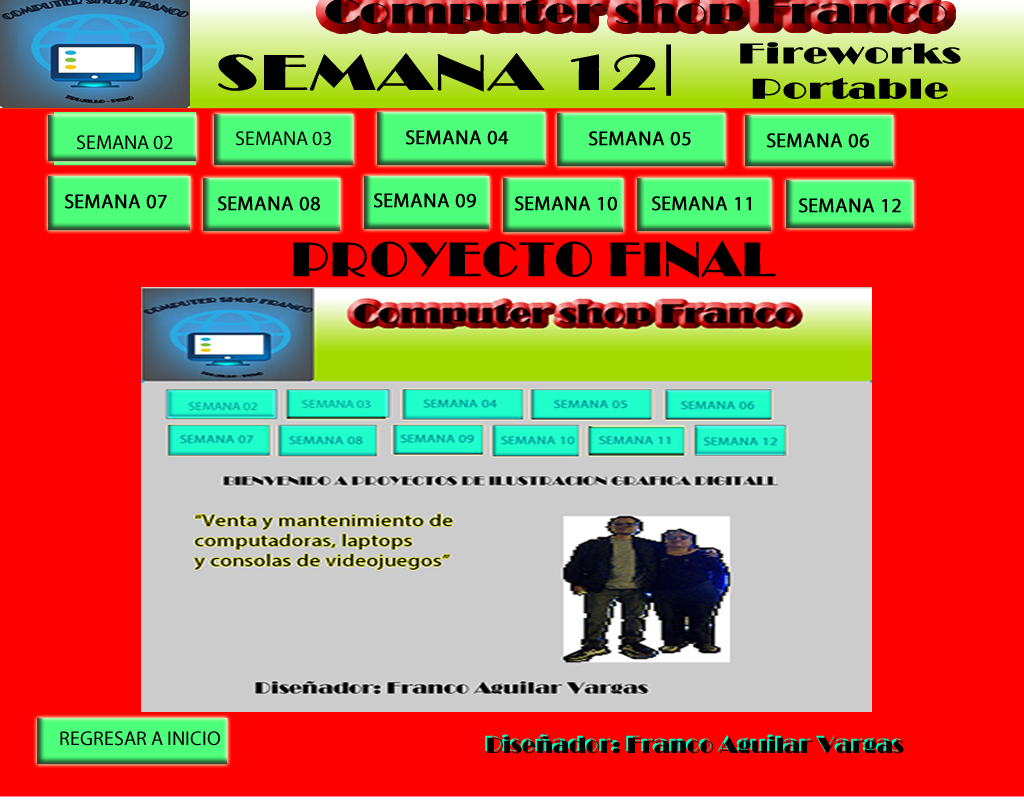
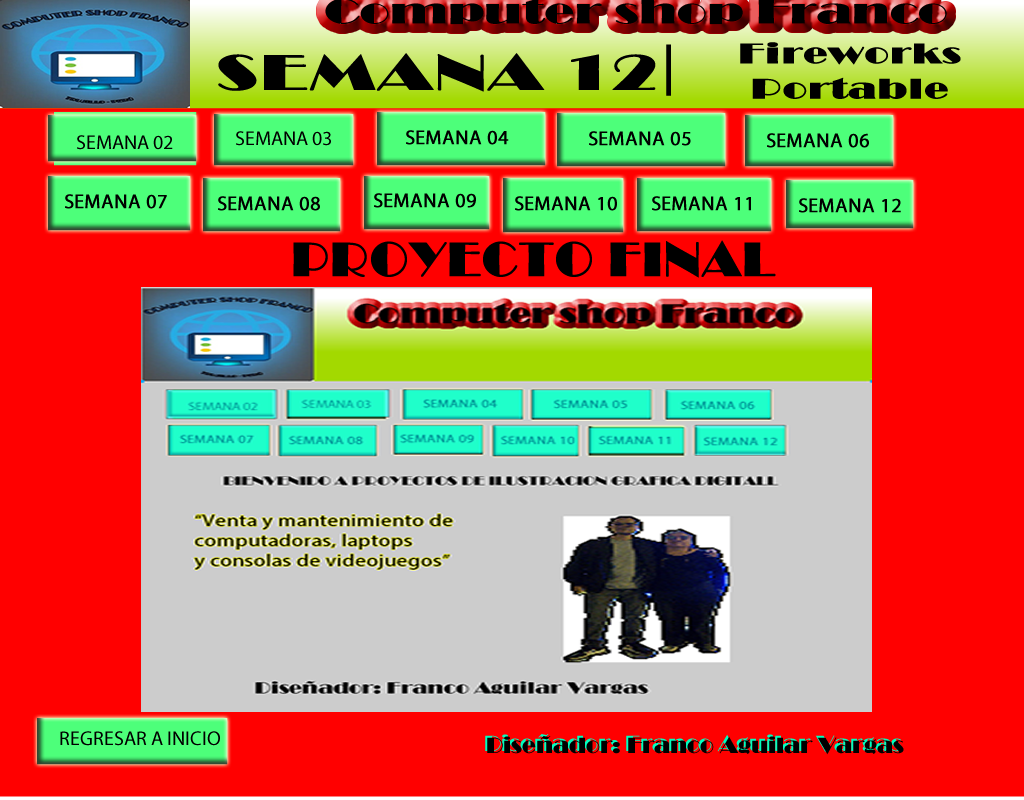
Add files via upload

Changed region(s): [[0.0, 0.0, 0.1875, 0.125]]

diff --git a/s03.html b/s03.html
@@ -5,10 +5,12 @@
 <head>
 <title>s03</title>
 <meta http-equiv="Content-Type" content="text/html; charset=utf-8" />
-<!--Fireworks CS6 Dreamweaver CS6 target.  Created Tue Jul 01 10:30:28 GMT-0500 2025-->
+<!--Fireworks CS6 Dreamweaver CS6 target.  Created Wed Jul 02 11:13:58 GMT-0500 2025-->
 </head>
-<body bgcolor="#ffffff">
+<center>
+<body bgcolor="#ffffff" style="margin-top:70px">
 <img name="s03" src="s03.png" width="1024" height="800" id="s03" usemap="#m_s03" alt="" /><map name="m_s03" id="m_s03">
+<area shape="rect" coords="0,0,190,125" href="index.html" alt="" />
 <area shape="rect" coords="786,193,913,248" href="s12.html" alt="" />
 <area shape="rect" coords="637,197,771,245" href="s11.html" alt="" />
 <area shape="rect" coords="503,193,623,249" href="s10.html" alt="" />
@@ -23,4 +25,5 @@
 <area shape="rect" coords="811,709,1001,755" href="index.html" alt="" />
 </map>
 </body>
+</center>
 </html>

diff --git a/s04.html b/s04.html
@@ -5,10 +5,12 @@
 <head>
 <title>s04</title>
 <meta http-equiv="Content-Type" content="text/html; charset=utf-8" />
-<!--Fireworks CS6 Dreamweaver CS6 target.  Created Tue Jul 01 10:30:52 GMT-0500 2025-->
+<!--Fireworks CS6 Dreamweaver CS6 target.  Created Wed Jul 02 11:15:42 GMT-0500 2025-->
 </head>
-<body bgcolor="#ffffff">
+<center>
+<body bgcolor="#ffffff" style="margin-top:70px">
 <img name="s04" src="s04.png" width="1024" height="800" id="s04" usemap="#m_s04" alt="" /><map name="m_s04" id="m_s04">
+<area shape="rect" coords="0,0,190,125" href="index.html" alt="" />
 <area shape="rect" coords="786,193,913,248" href="s12.html" alt="" />
 <area shape="rect" coords="637,197,771,245" href="s11.html" alt="" />
 <area shape="rect" coords="503,193,623,249" href="s10.html" alt="" />
@@ -23,4 +25,5 @@
 <area shape="rect" coords="811,697,1001,743" href="index.html" alt="" />
 </map>
 </body>
+</center>
 </html>

diff --git a/s05.html b/s05.html
@@ -5,10 +5,12 @@
 <head>
 <title>s05</title>
 <meta http-equiv="Content-Type" content="text/html; charset=utf-8" />
-<!--Fireworks CS6 Dreamweaver CS6 target.  Created Tue Jul 01 15:49:53 GMT-0500 2025-->
+<!--Fireworks CS6 Dreamweaver CS6 target.  Created Wed Jul 02 11:16:38 GMT-0500 2025-->
 </head>
-<body bgcolor="#ffffff">
+<center>
+<body bgcolor="#ffffff" style="margin-top:70px">
 <img name="s05" src="s05.png" width="1024" height="800" id="s05" usemap="#m_s05" alt="" /><map name="m_s05" id="m_s05">
+<area shape="rect" coords="0,-2,187,122" href="index.html" alt="" />
 <area shape="rect" coords="783,190,910,245" href="s12.html" alt="" />
 <area shape="rect" coords="634,194,768,242" href="s11.html" alt="" />
 <area shape="rect" coords="500,190,620,246" href="s10.html" alt="" />
@@ -23,4 +25,5 @@
 <area shape="rect" coords="808,694,998,740" href="index.html" alt="" />
 </map>
 </body>
+</center>
 </html>

diff --git a/s06.html b/s06.html
@@ -5,10 +5,12 @@
 <head>
 <title>s06</title>
 <meta http-equiv="Content-Type" content="text/html; charset=utf-8" />
-<!--Fireworks CS6 Dreamweaver CS6 target.  Created Tue Jul 01 17:03:59 GMT-0500 2025-->
+<!--Fireworks CS6 Dreamweaver CS6 target.  Created Wed Jul 02 11:17:12 GMT-0500 2025-->
 </head>
-<body bgcolor="#ffffff">
+<center>
+<body bgcolor="#ffffff" style="margin-top:70px">
 <img name="s06" src="s06.png" width="1024" height="800" id="s06" usemap="#m_s06" alt="" /><map name="m_s06" id="m_s06">
+<area shape="rect" coords="0,0,190,125" href="index.html" alt="" />
 <area shape="rect" coords="786,193,913,248" href="s12.html" alt="" />
 <area shape="rect" coords="637,197,771,245" href="s11.html" alt="" />
 <area shape="rect" coords="503,193,623,249" href="s10.html" alt="" />
@@ -23,4 +25,5 @@
 <area shape="rect" coords="767,690,957,736" href="index.html" alt="" />
 </map>
 </body>
+</center>
 </html>

diff --git a/s07.html b/s07.html
@@ -5,10 +5,12 @@
 <head>
 <title>s07</title>
 <meta http-equiv="Content-Type" content="text/html; charset=utf-8" />
-<!--Fireworks CS6 Dreamweaver CS6 target.  Created Tue Jul 01 17:05:25 GMT-0500 2025-->
+<!--Fireworks CS6 Dreamweaver CS6 target.  Created Wed Jul 02 11:22:48 GMT-0500 2025-->
 </head>
-<body bgcolor="#ffffff">
+<center>
+<body bgcolor="#ffffff" style="margin-top:70px">
 <img name="s07" src="s07.png" width="1024" height="800" id="s07" usemap="#m_s07" alt="" /><map name="m_s07" id="m_s07">
+<area shape="rect" coords="0,0,190,125" href="index.html" alt="" />
 <area shape="rect" coords="786,193,913,248" href="s12.html" alt="" />
 <area shape="rect" coords="637,197,771,245" href="s11.html" alt="" />
 <area shape="rect" coords="503,193,623,249" href="s10.html" alt="" />
@@ -23,4 +25,5 @@
 <area shape="rect" coords="785,696,975,742" href="index.html" alt="" />
 </map>
 </body>
+</center>
 </html>

diff --git a/s02.html b/s02.html
@@ -5,10 +5,12 @@
 <head>
 <title>s02</title>
 <meta http-equiv="Content-Type" content="text/html; charset=utf-8" />
-<!--Fireworks CS6 Dreamweaver CS6 target.  Created Tue Jul 01 09:50:11 GMT-0500 2025-->
+<!--Fireworks CS6 Dreamweaver CS6 target.  Created Wed Jul 02 11:09:47 GMT-0500 2025-->
 </head>
-<body bgcolor="#ffffff">
+<center>
+<body bgcolor="#ffffff" style="margin-top:70px">
 <img name="s02" src="s02.png" width="1024" height="800" id="s02" usemap="#m_s02" alt="" /><map name="m_s02" id="m_s02">
+<area shape="rect" coords="0,0,241,167" href="index.html" alt="" />
 <area shape="rect" coords="775,246,902,301" href="s12.html" alt="" />
 <area shape="rect" coords="626,250,760,298" href="s11.html" alt="" />
 <area shape="rect" coords="492,246,612,302" href="s10.html" alt="" />
@@ -23,4 +25,5 @@
 <area shape="rect" coords="63,696,253,742" href="index.html" alt="" />
 </map>
 </body>
+</center>
 </html>

diff --git a/s08.html b/s08.html
@@ -5,10 +5,12 @@
 <head>
 <title>s08</title>
 <meta http-equiv="Content-Type" content="text/html; charset=utf-8" />
-<!--Fireworks CS6 Dreamweaver CS6 target.  Created Tue Jul 01 17:06:57 GMT-0500 2025-->
+<!--Fireworks CS6 Dreamweaver CS6 target.  Created Wed Jul 02 11:18:17 GMT-0500 2025-->
 </head>
-<body bgcolor="#ffffff">
+<center>
+<body bgcolor="#ffffff" style="margin-top:70px">
 <img name="s08" src="s08.png" width="1024" height="800" id="s08" usemap="#m_s08" alt="" /><map name="m_s08" id="m_s08">
+<area shape="rect" coords="0,0,190,125" href="index.html" alt="" />
 <area shape="rect" coords="107,732,297,778" href="index.html" alt="" />
 <area shape="rect" coords="786,193,913,248" href="s12.html" alt="" />
 <area shape="rect" coords="637,197,771,245" href="s11.html" alt="" />
@@ -23,4 +25,5 @@
 <area shape="rect" coords="45,129,200,182" href="s02.html" alt="" />
 </map>
 </body>
+</center>
 </html>

diff --git a/s09.html b/s09.html
@@ -5,10 +5,12 @@
 <head>
 <title>s09</title>
 <meta http-equiv="Content-Type" content="text/html; charset=utf-8" />
-<!--Fireworks CS6 Dreamweaver CS6 target.  Created Tue Jul 01 17:07:47 GMT-0500 2025-->
+<!--Fireworks CS6 Dreamweaver CS6 target.  Created Wed Jul 02 11:18:58 GMT-0500 2025-->
 </head>
-<body bgcolor="#ffffff">
+<center>
+<body bgcolor="#ffffff" style="margin-top:70px">
 <img name="s09" src="s09.png" width="1024" height="800" id="s09" usemap="#m_s09" alt="" /><map name="m_s09" id="m_s09">
+<area shape="rect" coords="0,1,190,125" href="index.html" alt="" />
 <area shape="rect" coords="48,726,238,772" href="index.html" alt="" />
 <area shape="rect" coords="786,193,913,248" href="s12.html" alt="" />
 <area shape="rect" coords="637,197,771,245" href="s11.html" alt="" />
@@ -23,4 +25,5 @@
 <area shape="rect" coords="45,129,200,182" href="s02.html" alt="" />
 </map>
 </body>
+</center>
 </html>

diff --git a/s10.html b/s10.html
@@ -5,10 +5,12 @@
 <head>
 <title>s10</title>
 <meta http-equiv="Content-Type" content="text/html; charset=utf-8" />
-<!--Fireworks CS6 Dreamweaver CS6 target.  Created Tue Jul 01 17:09:35 GMT-0500 2025-->
+<!--Fireworks CS6 Dreamweaver CS6 target.  Created Wed Jul 02 11:20:19 GMT-0500 2025-->
 </head>
-<body bgcolor="#ffffff">
+<center>
+<body bgcolor="#ffffff" style="margin-top:70px">
 <img name="s10" src="s10.png" width="1024" height="800" id="s10" usemap="#m_s10" alt="" /><map name="m_s10" id="m_s10">
+<area shape="rect" coords="0,0,188,115" href="index.html" alt="" />
 <area shape="rect" coords="46,716,236,762" href="index.html" alt="" />
 <area shape="rect" coords="784,183,911,238" href="s12.html" alt="" />
 <area shape="rect" coords="635,187,769,235" href="s11.html" alt="" />
@@ -23,4 +25,5 @@
 <area shape="rect" coords="43,119,198,172" href="s02.html" alt="" />
 </map>
 </body>
+</center>
 </html>

diff --git a/s11.html b/s11.html
@@ -5,10 +5,12 @@
 <head>
 <title>s11</title>
 <meta http-equiv="Content-Type" content="text/html; charset=utf-8" />
-<!--Fireworks CS6 Dreamweaver CS6 target.  Created Tue Jul 01 17:10:53 GMT-0500 2025-->
+<!--Fireworks CS6 Dreamweaver CS6 target.  Created Wed Jul 02 11:20:57 GMT-0500 2025-->
 </head>
-<body bgcolor="#ffffff">
+<center>
+<body bgcolor="#ffffff" style="margin-top:70px">
 <img name="s11" src="s11.png" width="1024" height="800" id="s11" usemap="#m_s11" alt="" /><map name="m_s11" id="m_s11">
+<area shape="rect" coords="0,0,188,115" href="index.html" alt="" />
 <area shape="rect" coords="35,725,225,771" href="index.html" alt="" />
 <area shape="rect" coords="784,183,911,238" href="s12.html" alt="" />
 <area shape="rect" coords="635,187,769,235" href="s11.html" alt="" />
@@ -23,4 +25,5 @@
 <area shape="rect" coords="43,119,198,172" href="s02.html" alt="" />
 </map>
 </body>
+</center>
 </html>

diff --git a/s12.html b/s12.html
@@ -5,10 +5,12 @@
 <head>
 <title>s12</title>
 <meta http-equiv="Content-Type" content="text/html; charset=utf-8" />
-<!--Fireworks CS6 Dreamweaver CS6 target.  Created Tue Jul 01 17:13:47 GMT-0500 2025-->
+<!--Fireworks CS6 Dreamweaver CS6 target.  Created Wed Jul 02 11:21:46 GMT-0500 2025-->
 </head>
-<body bgcolor="#ffffff">
+<center>
+<body bgcolor="#ffffff" style="margin-top:70px">
 <img name="s12" src="s12.png" width="1024" height="800" id="s12" usemap="#m_s12" alt="" /><map name="m_s12" id="m_s12">
+<area shape="rect" coords="0,0,190,109" href="index.html" alt="" />
 <area shape="rect" coords="37,718,227,764" href="index.html" alt="" />
 <area shape="rect" coords="786,176,913,231" href="s12.html" alt="" />
 <area shape="rect" coords="637,180,771,228" href="s11.html" alt="" />
@@ -23,4 +25,5 @@
 <area shape="rect" coords="45,112,200,165" href="s02.html" alt="" />
 </map>
 </body>
+</center>
 </html>

diff --git a/index.html b/index.html
@@ -5,9 +5,10 @@
 <head>
 <title>index</title>
 <meta http-equiv="Content-Type" content="text/html; charset=utf-8" />
-<!--Fireworks CS6 Dreamweaver CS6 target.  Created Tue Jul 01 10:14:25 GMT-0500 2025-->
+<!--Fireworks CS6 Dreamweaver CS6 target.  Created Wed Jul 02 11:12:51 GMT-0500 2025-->
 </head>
-<body bgcolor="#ffffff">
+<center>
+<body bgcolor="#ffffff" style="margin-top:70px">
 <img name="index" src="index.png" width="1024" height="800" id="index" usemap="#m_index" alt="" /><map name="m_index" id="m_index">
 <area shape="rect" coords="775,246,902,301" href="s12.html" alt="" />
 <area shape="rect" coords="626,250,760,298" href="s11.html" alt="" />
@@ -22,4 +23,5 @@
 <area shape="rect" coords="34,182,189,235" href="s02.html" alt="" />
 </map>
 </body>
+</center>
 </html>
